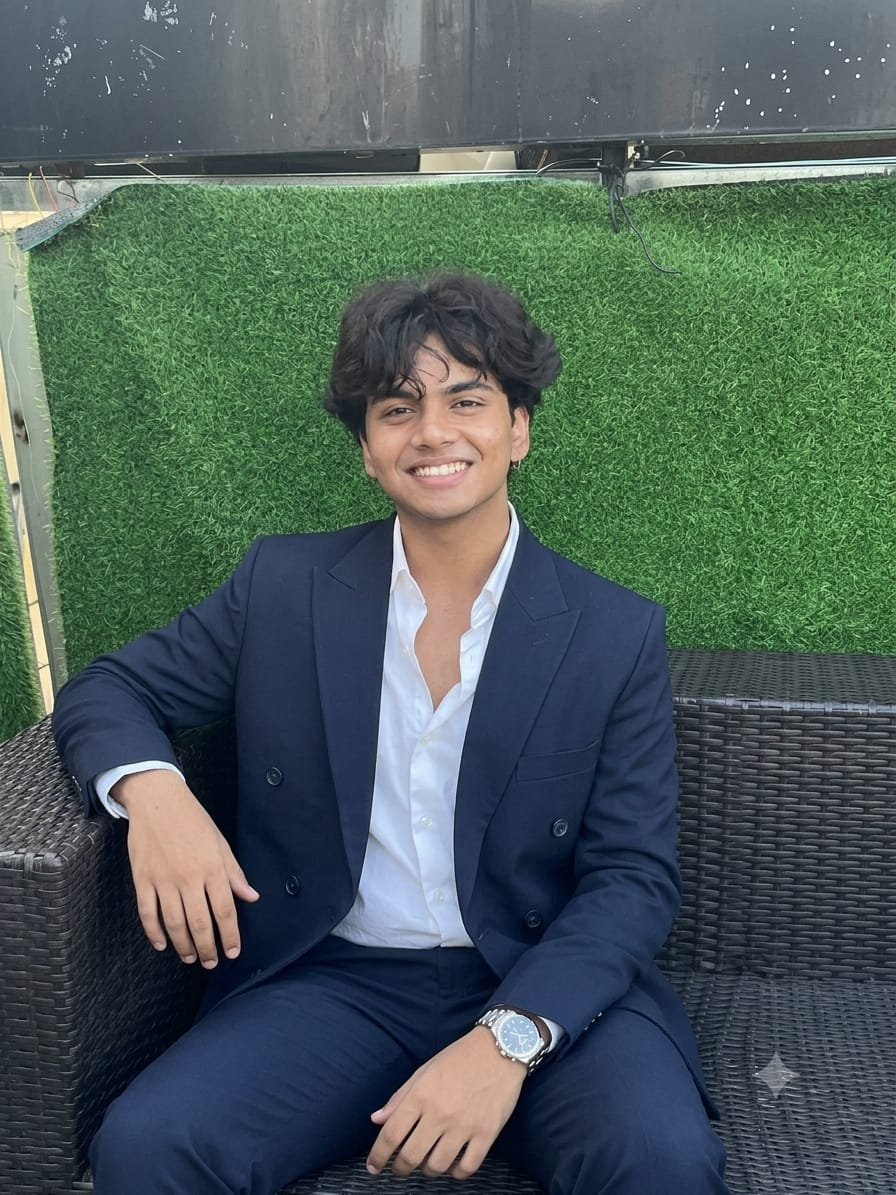
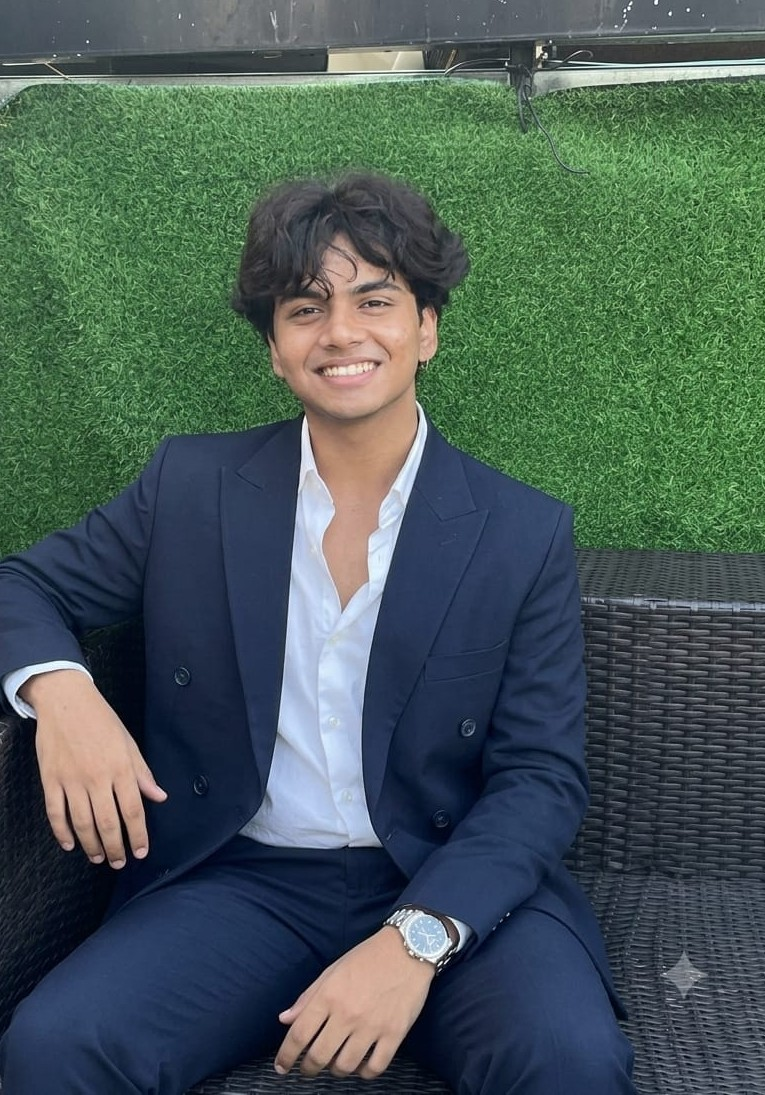
Update profile image

diff --git a/style.css b/style.css
@@ -15,8 +15,7 @@ body {
 
 img {
     display: block;
-    max-width: 100%;
-    zoom: 1;
+    max-width: 100%;;
 }
 
 section {
